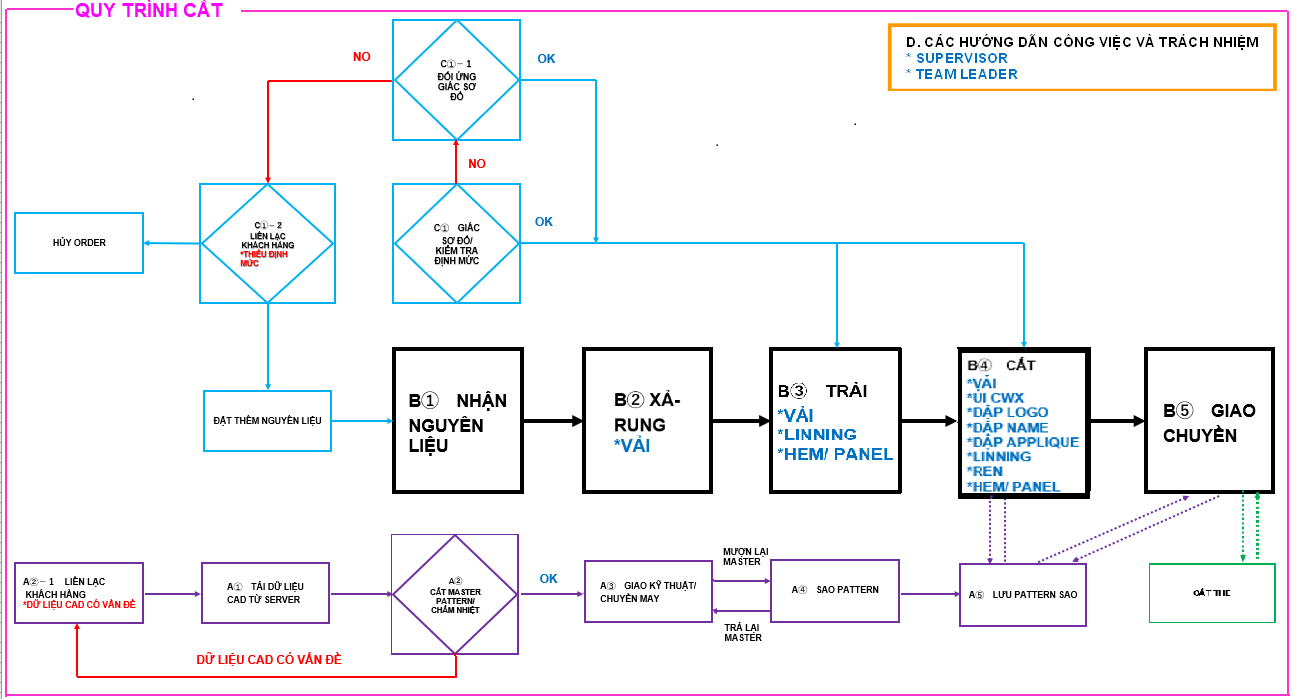
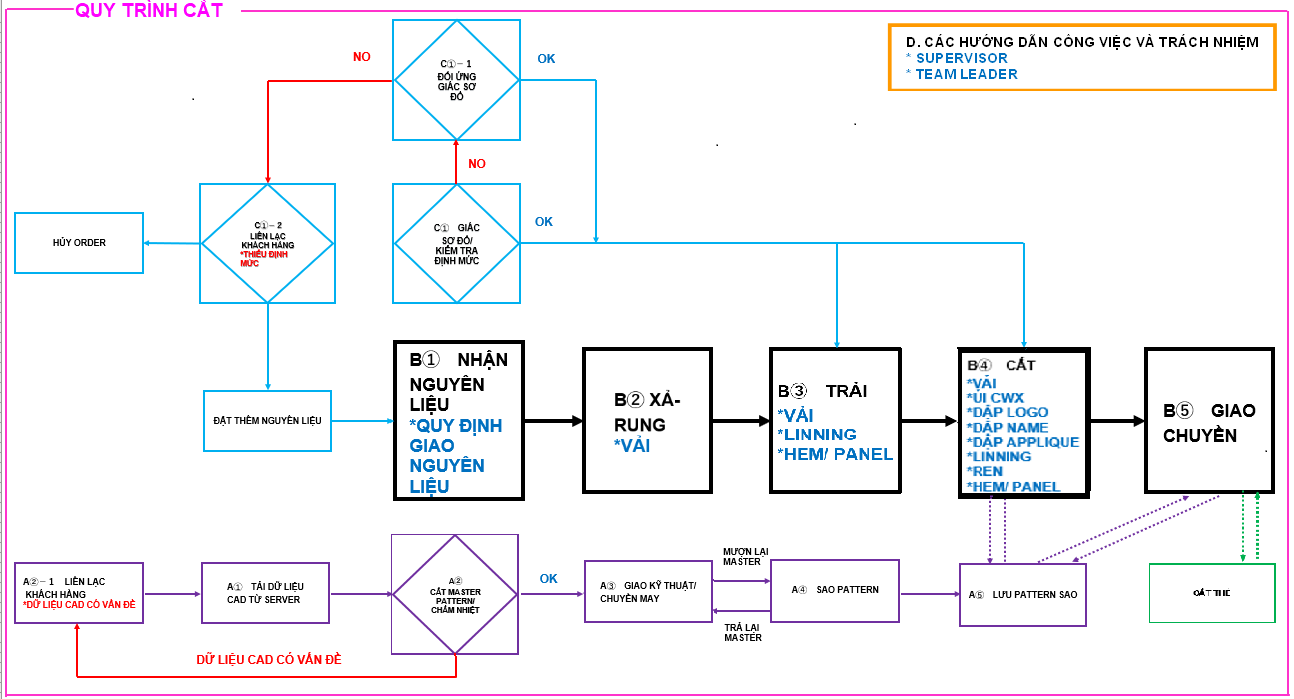
new code quy trinh kho cat 2:39 18-07-2024

Changed region(s): [[0.3091, 0.4807, 0.4019, 0.721]]

diff --git a/Controlers/Kho/QTQLNVL.Control.js b/Controlers/Kho/QTQLNVL.Control.js
@@ -176,6 +176,22 @@ module.exports.QTQLNVLLoad = async(req,res) =>{
         })
     }
 
+    module.exports.QTQLNVL_B5_QDGNL= async(req, res) =>{
+        res.render('kho/QuyTrinh/QTQLNVL_B5_QDGNL',{
+            title:'',
+            userId:req.signedCookies.userId,
+           html:''
+        })
+    }
+
+    module.exports.QTQLNVL_B5_QDGPL= async(req, res) =>{
+        res.render('kho/QuyTrinh/QTQLNVL_B5_QDGPL',{
+            title:'',
+            userId:req.signedCookies.userId,
+           html:''
+        })
+    }
+
     module.exports.QTQLNVL_B5_NL_4A1= async(req, res) =>{
         res.render('kho/QuyTrinh/QTQLNVL_B5_NL_4A1',{
             title:'',
@@ -583,7 +599,26 @@ module.exports.QTQLNVLLoad = async(req,res) =>{
         })
     }
 
+    module.exports.QTQLNVL_B11_2_QLCMDH= async(req, res) =>{
+        res.render('kho/QuyTrinh/QTQLNVL_B11_2_QLCMDH',{
+            title:'',
+            userId:req.signedCookies.userId,
+           html:''
+        })
+    }
 
+    module.exports.QTQLNVL_B11_2_QLNVLDH= async(req, res) =>{
+        res.render('kho/QuyTrinh/QTQLNVL_B11_2_QLNVLDH',{
+            title:'',
+            userId:req.signedCookies.userId,
+           html:''
+        })
+    }
+
+    
+
+
+    
     
     
 

diff --git a/routes/kho.router.js b/routes/kho.router.js
@@ -116,6 +116,10 @@ router.get('/QTQLNVL_B5_NL_4B1',QTQLNVLControl.QTQLNVL_B5_NL_4B1)
 router.get('/QTQLNVL_B5_NL_4B2',QTQLNVLControl.QTQLNVL_B5_NL_4B2)
 router.get('/QTQLNVL_B5_NL_4B3',QTQLNVLControl.QTQLNVL_B5_NL_4B3)
 
+router.get('/QTQLNVL_B5_QDGNL',QTQLNVLControl.QTQLNVL_B5_QDGNL)
+router.get('/QTQLNVL_B5_QDGPL',QTQLNVLControl.QTQLNVL_B5_QDGPL)
+
+
 router.get('/InPhieuGiaoHangPhuLieu',QTQLNVLControl.InPhieuGiaoHangPhuLieu)
 
 router.get('/DoiVoiMaHangMoi',QTQLNVLControl.DoiVoiMaHangMoi)
@@ -179,6 +183,12 @@ router.get('/QTQLNVLB10',QTQLNVLControl.QTQLNVLB10)
 router.get('/QTDC_I_2_2',QTQLNVLControl.QTDC_I_2_2)
 
 router.get('/QTQLNVLB8_1_I_B2',QTQLNVLControl.QTQLNVLB8_1_I_B2)
+
+router.get('/QTQLNVL_B11_2_QLCMDH',QTQLNVLControl.QTQLNVL_B11_2_QLCMDH)
+router.get('/QTQLNVL_B11_2_QLNVLDH',QTQLNVLControl.QTQLNVL_B11_2_QLNVLDH)
+
+
+
 
 
 

diff --git a/Controlers/sanxuat/QTSX.Control.js b/Controlers/sanxuat/QTSX.Control.js
@@ -113,3 +113,21 @@ module.exports.QLTDXH= async(req,res) =>{
     html:'',
     })
 }
+
+module.exports.QTSXA= async(req,res) =>{
+    res.render('SanXuat/QTSXA',{
+        title:'Quy Trình Sản Xuất',
+        userId:req.signedCookies.userId,
+    html:'',
+    })
+}
+
+module.exports.QTSXB= async(req,res) =>{
+    res.render('SanXuat/QTSXB',{
+        title:'Quy Trình Sản Xuất',
+        userId:req.signedCookies.userId,
+    html:'',
+    })
+}
+
+

diff --git a/Controlers/cat/CatRen.Control.js b/Controlers/cat/CatRen.Control.js
@@ -102,6 +102,16 @@ module.exports.NhanNguyenLieu= async(req,res) =>{
     })
 }
 
+module.exports.CatSDTC_B1_QDGNL= async(req,res) =>{
+    res.render('Cat/CatSDTC_B1_QDGNL', {
+        title: 'Express',
+        userId: req.signedCookies.userId,
+        html: ''
+    })
+}
+
+
+
 module.exports.XaVai= async(req,res) =>{
     res.render('Cat/XaVai', {
         title: 'Express',

diff --git a/routes/Cat.Router.js b/routes/Cat.Router.js
@@ -53,6 +53,9 @@ router.get('/TraiVaiHemPanel',CatRenControl.TraiVaiHemPanel)
 //Quy trinh nhan nguyen lieu
 router.get('/NhanNguyenLieu',CatRenControl.NhanNguyenLieu)
 
+router.get('/CatSDTC_B1_QDGNL',CatRenControl.CatSDTC_B1_QDGNL)
+
+
 //Quy trinh nhan nguyen lieu
 router.get('/XaVai',CatRenControl.XaVai)
 

diff --git a/routes/sanxuat.router.js b/routes/sanxuat.router.js
@@ -27,6 +27,9 @@ router.get('/SanXuatLai',QTSXControl.SanXuatLai);
 router.get('/KHXHLai',QTSXControl.KHXHLai);
 router.get('/QLTDXH',QTSXControl.QLTDXH);
 
+router.get('/QTSXA',QTSXControl.QTSXA)
+router.get('/QTSXB',QTSXControl.QTSXB)
+
 
 
 
